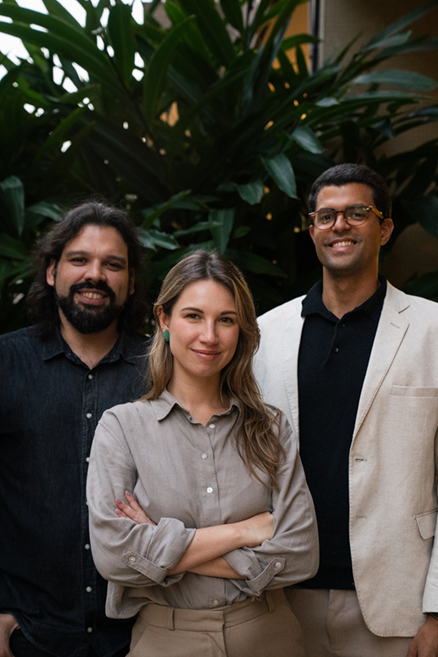
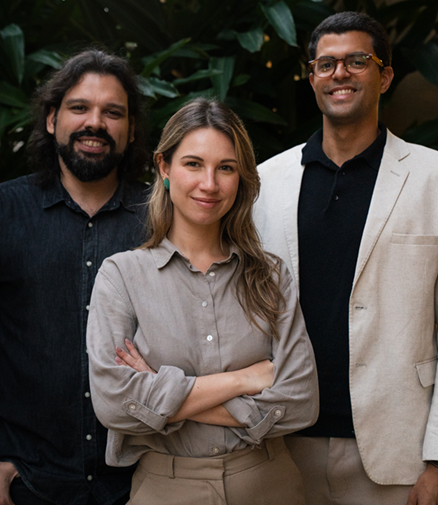
reordanação do conteudo

diff --git a/src/components/site/AboutHero.jsx b/src/components/site/AboutHero.jsx
@@ -45,7 +45,7 @@ export default function AboutHero() {
             <img
               src={SociosImg}
               alt="Sócios Ctrl+Waste"
-              className="rounded-2xl object-cover object-center"
+              className="rounded-2xl object-cover object-top"
               style={{
                 height: textHeight ? `${textHeight}px` : 'auto',
                 width: '100%',
